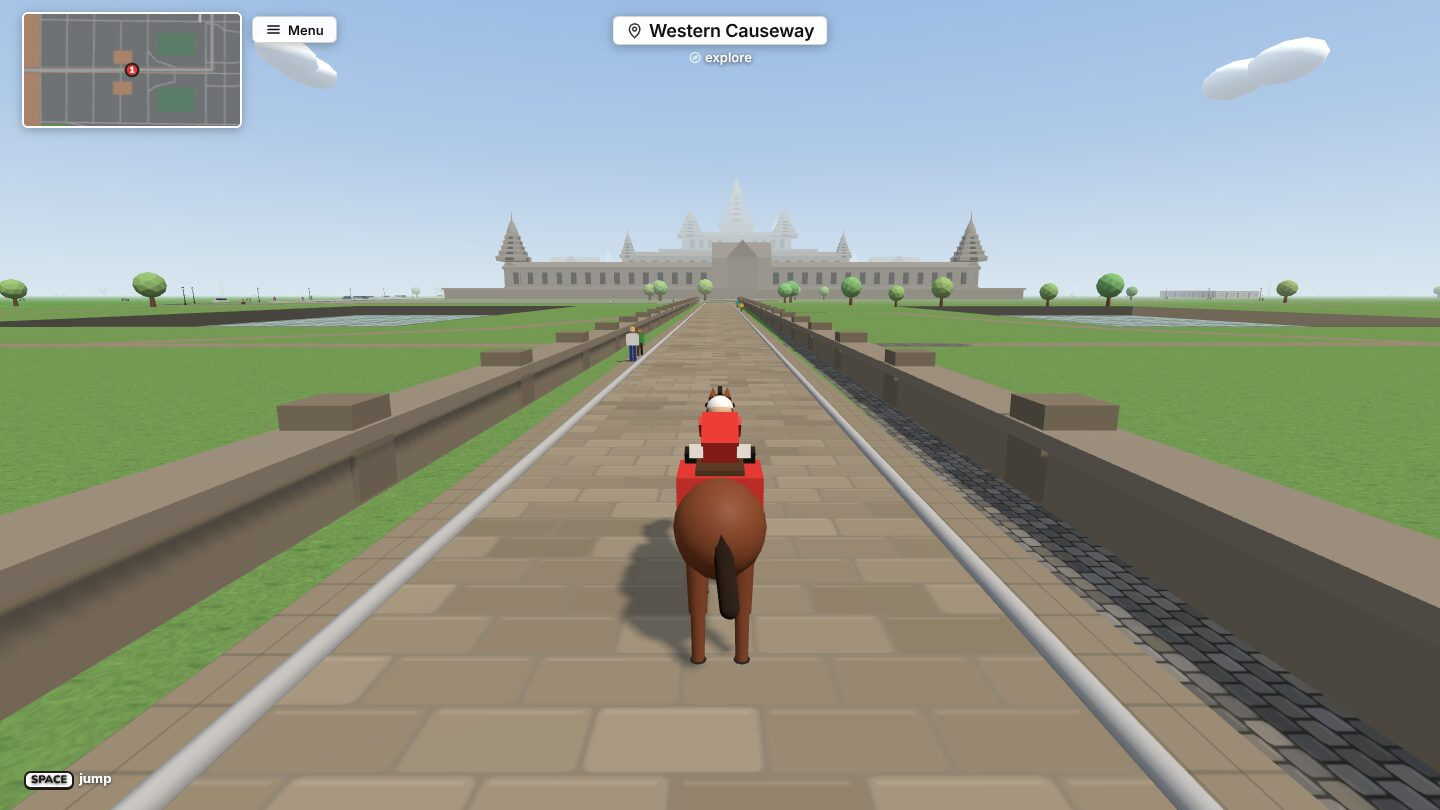
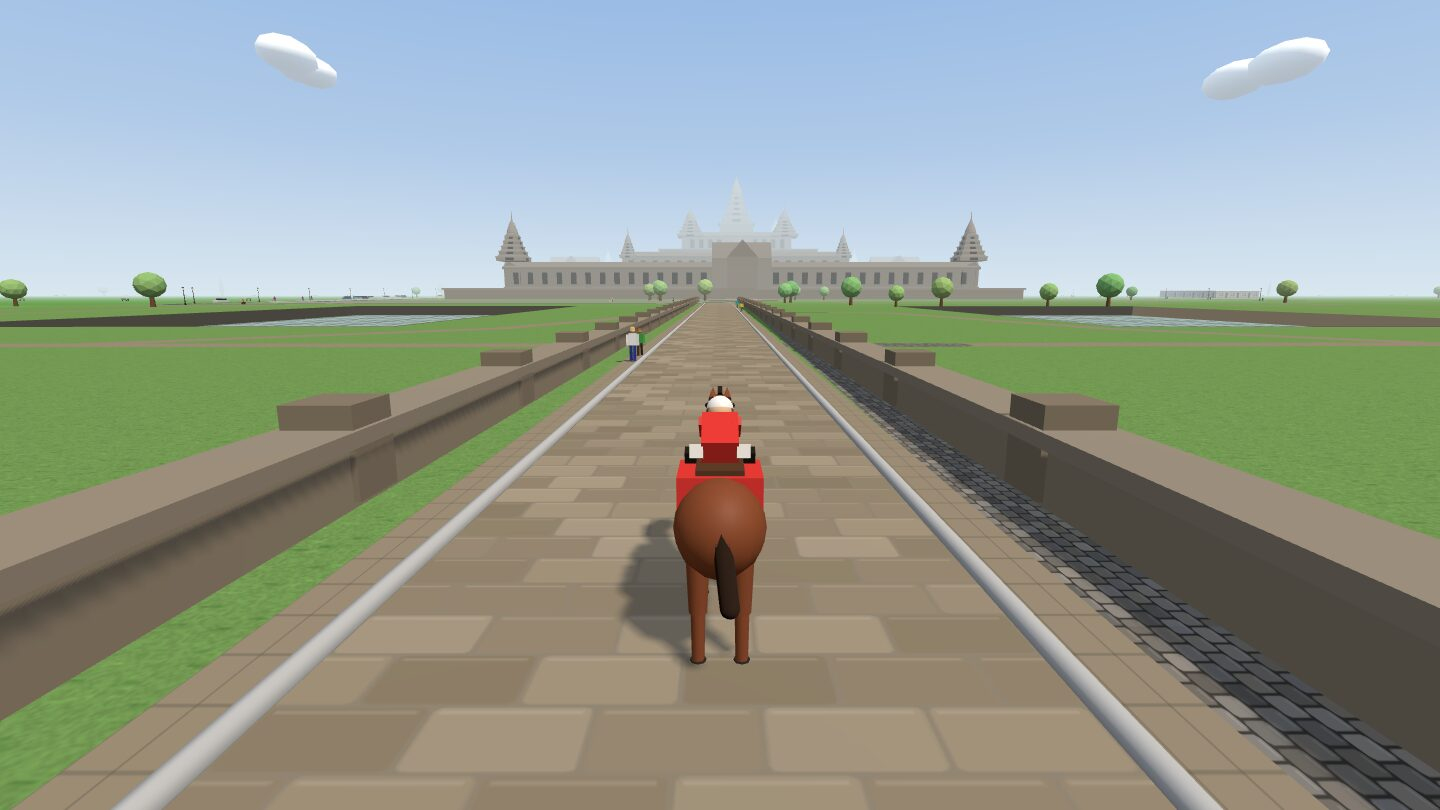
Sites: places on the big map, the way back to the site's page, screenshots
- Named places for the big map in both sites.
- /taj-mahal/ and /angkor-wat/ send the visitor to the site's page, as
  the game's "back to the website" link goes there.
- The pictures for the sites page, taken in the game with the interface
  hidden.

Claude-Session: https://claude.ai/code/session_01HJc18dyDPz3n88jcKFy9XJ

diff --git a/taj-mahal/city.js b/taj-mahal/city.js
@@ -64,4 +64,10 @@ export const LOOK = {
 };
 
 // Places named on the big map when riding about freely: click a name to teleport there.
-export const PLACES = [];
+export const PLACES = [
+  { name: 'The great gate', x: -91, z: 196, side: 'r' },
+  { name: 'The long canal', x: -91, z: 0, side: 'r' },
+  { name: 'The tomb', x: -91, z: -254, side: 'r' },
+  { name: 'The mosque', x: -264, z: -254, side: 'l' },
+  { name: 'The Jawab', x: 82, z: -254, side: 'r' },
+];

diff --git a/angkor-wat/city.js b/angkor-wat/city.js
@@ -57,4 +57,9 @@ export const LOOK = {
 };
 
 // Places named on the big map when riding about freely: click a name to teleport there.
-export const PLACES = [];
+export const PLACES = [
+  { name: 'The causeway', x: -520, z: 76, side: 'r' },
+  { name: 'The western gopura', x: -319, z: 77, side: 'l' },
+  { name: 'The libraries', x: -84, z: 83, side: 'l' },
+  { name: 'Angkor Wat', x: 378, z: 88, side: 'r' },
+];

diff --git a/angkor-wat/index.html b/angkor-wat/index.html
@@ -1,0 +1,4 @@
+---
+layout: redirect
+to: /sites/angkor-wat/
+---

diff --git a/taj-mahal/index.html b/taj-mahal/index.html
@@ -1,0 +1,4 @@
+---
+layout: redirect
+to: /sites/taj-mahal/
+---

diff --git a/docs/sites.md b/docs/sites.md
@@ -13,7 +13,8 @@ The same files as a small city (see `docs/first-maps.md`), plus the monuments:
   and `core/js/kit.js` the way `rome/colosseo.js` is, in real metres and scaled by 1.25 at the end.
   Each is a monument in `city.js`'s `MONUMENTS` with its `area` (the map's pieces it replaces), its
   `foot` (what riders bump into) and a `reach`, the distance it is put up from.
-- an entry in `_data/sites.yml` and a page `sites/<id>/index.html` (`layout: site`, `site: <id>`). The
+- an entry in `_data/sites.yml`, a page `sites/<id>/index.html` (`layout: site`, `site: <id>`) and
+  `<id>/index.html` (see the end of this page). The
   sites page and the site's page are in English only, like the art pages. The pictures are
   `assets/img/sites/<id>.jpg` (the page's top and its card).
 
@@ -38,3 +39,8 @@ metres depends on the route. `angkor-wat/frame.js` turns OpenStreetMap's metres 
 
 `/<id>/play/dev.html#<monument id>` shows one monument on a turntable. `/<id>/play/?pos=<x>,<z>&yaw=<radians>`
 puts you in the game at a point, looking that way.
+
+## The links back to the website
+
+The game's "Back to the website" link goes to `/<id>/`. For a site that is a small page that sends
+the visitor on to `/sites/<id>/` (`<id>/index.html`, `layout: redirect`).
